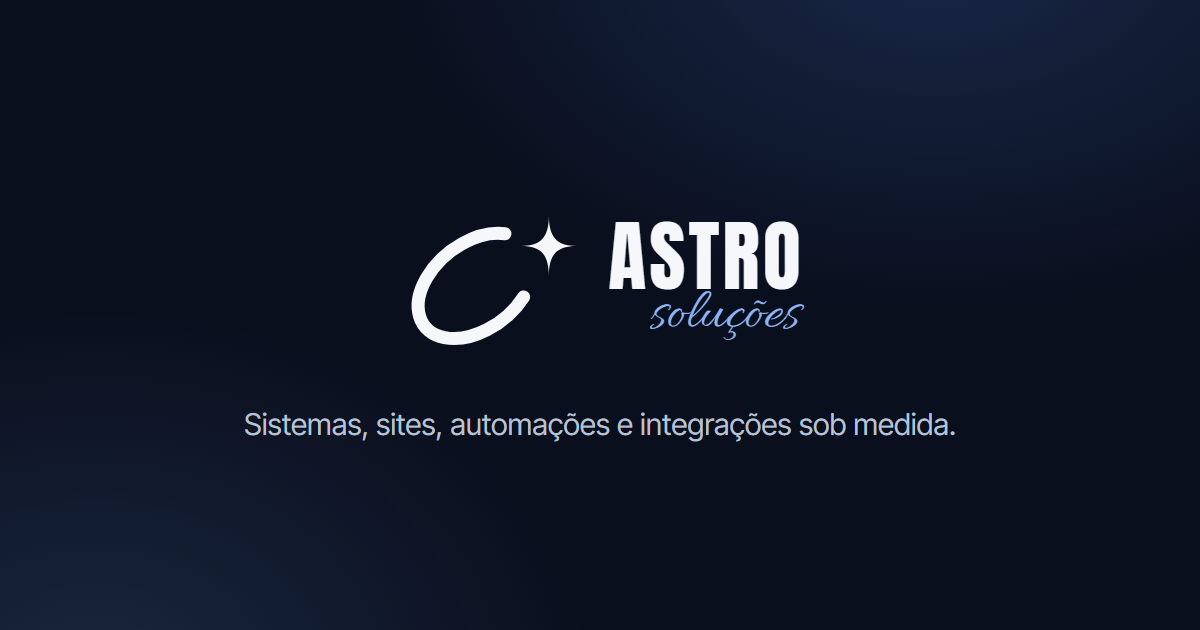
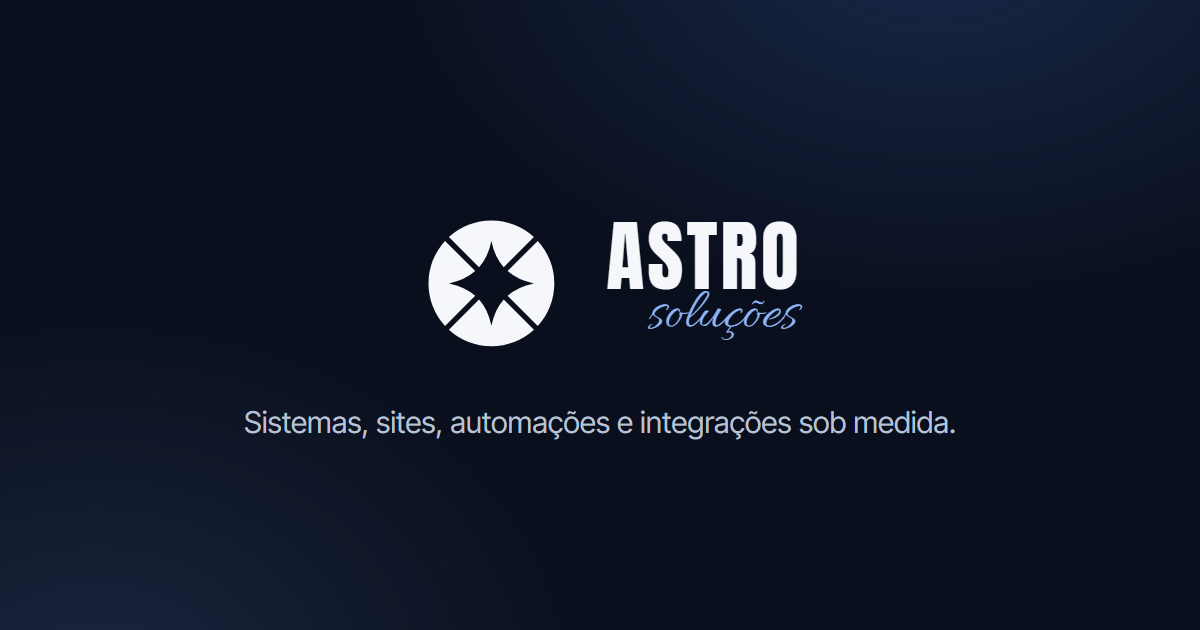
feat: marca nova e correção do travamento no scroll do celular
Marca
- símbolo refeito com a geometria oficial: disco recortado em quatro pétalas,
  e o vão entre elas desenha a estrela de quatro pontas. Uma pétala é
  desenhada, as outras três são a mesma path girada em 90°
- cinco versões em public/logo (tonal, dois tons, mono, negativo e a night,
  branco e azul alternados, que é a do site) mais favicon e badge
- AstroStar passa a ser o vão da própria marca remontado como contorno, no
  lugar da estrela antiga que era um desenho à parte
- apple-touch-icon, og-image e favicon-64 regerados na paleta nova
  (#0B2545 marinho, #1E86CF azul)

Travamento no arrastão rápido
O Lenis intercepta o gesto de toque e roda o scroll por JS com lerp de 0.105.
Num flick rápido a página fica muito atrás do dedo, e a sensação é de
travamento. Agora ele só existe em ponteiro fino: o celular usa o scroll
nativo, que já tem inércia própria.

Faixa no fim do site
Duas causas somadas. O elástico do overscroll expõe uma área sem nenhuma
camada fixa atrás, e ali quem pinta é o fundo do `html`, que estava sem cor —
resolvido com `overscroll-behavior-y: none` e a cor declarada no `html`. E o
rodapé utilitário usava `bg-graphite/70` com `backdrop-blur-sm`: deixava a
cor da TintLayer vazar por baixo e ainda custava um `backdrop-filter` por
frame de scroll. Agora é opaco.

Changed region(s): [[0.4933, 0.3619, 0.6783, 0.5429], [0.3392, 0.3317, 0.4625, 0.573], [0.185, 0.6333, 0.8017, 0.6937]]

diff --git a/src/components/brand/AstroMark.tsx b/src/components/brand/AstroMark.tsx
@@ -1,73 +1,82 @@
-import { useId } from 'react'
+/**
+ * Símbolo da Astro: um disco recortado em quatro pétalas, e o vão entre elas
+ * desenha uma estrela de quatro pontas. As fendas têm largura constante do
+ * centro à borda, então a marca fica idêntica em qualquer escala.
+ *
+ * Uma pétala só; as outras três são a mesma path girada em 90°. Mudou a
+ * geometria aqui, mudou nos arquivos de `public/logo/` também.
+ */
+const PETAL =
+  'M 71.84 50.99 Q 79.31 57.61 91.00 60.00 Q 79.31 62.39 71.84 69.01 L 93.91 91.08 A 46 46 0 0 0 93.91 28.92 Z'
+
+/** Ordem de desenho: topo, direita, base, esquerda. */
+const PETAL_ANGLES = [-90, 0, 90, 180] as const
+
+/* Paleta da marca. O azul lidera, o marinho fecha. */
+const BLUE = '#1E86CF'
+const STEEL = '#2E5A87'
+const NAVY = '#0B2545'
+const SLATE = '#5B7A99'
 
 /**
- * Símbolo da Astro: anel orbital aberto com uma estrela de quatro pontas na
- * abertura. Mesma geometria dos arquivos em `public/logo/`. Mudou aqui, muda lá.
+ * `tonal` é a versão cheia para fundo claro: as quatro peças giram em tom, do
+ * claro no topo ao marinho embaixo, uma volta de luz e não quatro cores soltas.
+ * `duo` alterna só dois tons, mais gráfica e mais barata de imprimir. `mono` é
+ * a de traço único, indicada abaixo de 32px, onde as fendas somam e o disco
+ * fecha. `negative` e `night` são as de fundo escuro — esta última guarda o
+ * azul da marca, que o branco puro perde.
  */
-const RING_PATH = 'M36.7 15.4A22 14.5 -38 1 0 43 36.7'
-const STAR_PATH =
-  'M51.5 9.2C51.5 16.6 54.1 19.5 60.8 19.5C54.1 19.5 51.5 22.4 51.5 29.8C51.5 22.4 48.9 19.5 42.2 19.5C48.9 19.5 51.5 16.6 51.5 9.2Z'
+type Tone = 'tonal' | 'duo' | 'mono' | 'negative' | 'night'
 
-/**
- * `light` é o padrão do site (fundo escuro). `gradient` é a versão de fundo
- * claro. `mono` herda `currentColor`, para a marca acompanhar o texto.
- */
-type Tone = 'light' | 'gradient' | 'navy' | 'mono'
+const TONES: Record<Tone, readonly [string, string, string, string]> = {
+  tonal: [BLUE, STEEL, NAVY, SLATE],
+  duo: [BLUE, NAVY, BLUE, NAVY],
+  mono: [NAVY, NAVY, NAVY, NAVY],
+  negative: ['#FFFFFF', '#FFFFFF', '#FFFFFF', '#FFFFFF'],
+  night: ['#FFFFFF', BLUE, '#FFFFFF', BLUE],
+}
 
 export function AstroMark({
   className = '',
-  tone = 'light',
+  tone = 'night',
   title,
 }: {
   className?: string
   tone?: Tone
   title?: string
 }) {
-  /* Os ids de gradiente precisam ser únicos: a marca aparece várias vezes na página. */
-  const id = useId().replace(/:/g, '')
-  const ringId = `ring-${id}`
-  const starId = `star-${id}`
-
-  const ringStroke =
-    tone === 'gradient' ? `url(#${ringId})` : tone === 'navy' ? '#12294e' : tone === 'mono' ? 'currentColor' : '#f5f7fb'
-  const starFill =
-    tone === 'gradient' || tone === 'light'
-      ? `url(#${starId})`
-      : tone === 'navy'
-        ? '#12294e'
-        : 'currentColor'
+  const fills = TONES[tone]
 
   return (
     <svg
-      viewBox="0 0 64 64"
+      viewBox="-8 -8 136 136"
       className={className}
       role={title ? 'img' : undefined}
       aria-label={title}
       aria-hidden={title ? undefined : true}
     >
-      {tone === 'gradient' ? (
-        <linearGradient id={ringId} x1="8" y1="50" x2="46" y2="14" gradientUnits="userSpaceOnUse">
-          <stop offset="0" stopColor="#5c7fa6" />
-          <stop offset="1" stopColor="#13294c" />
-        </linearGradient>
-      ) : null}
-      {tone === 'gradient' || tone === 'light' ? (
-        <linearGradient id={starId} x1="51.5" y1="9.2" x2="51.5" y2="29.8" gradientUnits="userSpaceOnUse">
-          <stop offset="0" stopColor={tone === 'light' ? '#4d84e0' : '#2b7fc0'} />
-          <stop offset="1" stopColor={tone === 'light' ? '#8db4f5' : '#5fbaec'} />
-        </linearGradient>
-      ) : null}
-      <path d={RING_PATH} fill="none" stroke={ringStroke} strokeWidth="4" strokeLinecap="round" />
-      <path d={STAR_PATH} fill={starFill} />
+      {PETAL_ANGLES.map((angle, index) => (
+        <path key={angle} d={PETAL} fill={fills[index]} transform={`rotate(${angle} 60 60)`} />
+      ))}
     </svg>
   )
 }
 
-/** Só a estrela. Serve de marcador nos eyebrows e nas listas. */
+/**
+ * A estrela sozinha: é o vão entre as quatro pétalas, remontado como contorno
+ * próprio. Serve de marcador nos eyebrows e nas listas — o mesmo desenho da
+ * marca, na menor unidade possível.
+ */
+const STAR =
+  'M 71.84 50.99 Q 79.31 57.61 91 60 Q 79.31 62.39 71.84 69.01 ' +
+  'L 69.01 71.84 Q 62.39 79.31 60 91 Q 57.61 79.31 50.99 71.84 ' +
+  'L 48.16 69.01 Q 40.69 62.39 29 60 Q 40.69 57.61 48.16 50.99 ' +
+  'L 50.99 48.16 Q 57.61 40.69 60 29 Q 62.39 40.69 69.01 48.16 Z'
+
 export function AstroStar({ className = '' }: { className?: string }) {
   return (
-    <svg viewBox="41 9 20.5 21.3" className={className} aria-hidden="true">
-      <path d={STAR_PATH} fill="currentColor" />
+    <svg viewBox="29 29 62 62" className={className} aria-hidden="true">
+      <path d={STAR} fill="currentColor" />
     </svg>
   )
 }

diff --git a/tools/icon-generator.html b/tools/icon-generator.html
@@ -2,13 +2,13 @@
 <style>
   body{margin:0;background:#888;font-family:'Anton',sans-serif}
   .plate{position:relative;overflow:hidden}
-  #apple{width:180px;height:180px;background:#0f2947;display:flex;align-items:center;justify-content:center}
+  #apple{width:180px;height:180px;background:#0B2545;display:flex;align-items:center;justify-content:center}
   #apple svg{width:150px;height:150px}
   #fav32{width:64px;height:64px;background:#fff;display:flex;align-items:center;justify-content:center}
   #fav32 svg{width:64px;height:64px}
   #og{width:1200px;height:630px;background:#0a0f1e;display:flex;flex-direction:column;align-items:center;justify-content:center;gap:28px;
       background-image:radial-gradient(900px 600px at 78% -10%,rgba(77,132,224,.22),transparent 62%),radial-gradient(800px 600px at 8% 108%,rgba(122,179,255,.14),transparent 62%)}
-  #og svg{width:190px;height:190px}
+  #og svg{width:186px;height:186px}
   #og .wm{display:flex;align-items:center;gap:22px}
   #og .word{display:flex;flex-direction:column;line-height:1}
   #og .astro{font-family:Anton,sans-serif;font-size:78px;letter-spacing:.04em;color:#f5f7fb;line-height:.9;text-transform:uppercase}
@@ -17,9 +17,11 @@
 </style>
 <link href="https://fonts.googleapis.com/css2?family=Inter+Tight:wght@400;480&family=Anton&family=Allura&display=swap" rel="stylesheet">
 <template id="mark">
-  <svg viewBox="0 0 64 64">
-    <path d="M36.7 15.4A22 14.5 -38 1 0 43 36.7" fill="none" stroke="CS" stroke-width="4.4" stroke-linecap="round"/>
-    <path d="M51.5 9.2C51.5 16.6 54.1 19.5 60.8 19.5C54.1 19.5 51.5 22.4 51.5 29.8C51.5 22.4 48.9 19.5 42.2 19.5C48.9 19.5 51.5 16.6 51.5 9.2Z" fill="CS"/>
+  <svg viewBox="-8 -8 136 136">
+    <path d="M 71.84 50.99 Q 79.31 57.61 91.00 60.00 Q 79.31 62.39 71.84 69.01 L 93.91 91.08 A 46 46 0 0 0 93.91 28.92 Z" fill="CS" transform="rotate(-90 60 60)"/>
+    <path d="M 71.84 50.99 Q 79.31 57.61 91.00 60.00 Q 79.31 62.39 71.84 69.01 L 93.91 91.08 A 46 46 0 0 0 93.91 28.92 Z" fill="CS" transform="rotate(0 60 60)"/>
+    <path d="M 71.84 50.99 Q 79.31 57.61 91.00 60.00 Q 79.31 62.39 71.84 69.01 L 93.91 91.08 A 46 46 0 0 0 93.91 28.92 Z" fill="CS" transform="rotate(90 60 60)"/>
+    <path d="M 71.84 50.99 Q 79.31 57.61 91.00 60.00 Q 79.31 62.39 71.84 69.01 L 93.91 91.08 A 46 46 0 0 0 93.91 28.92 Z" fill="CS" transform="rotate(180 60 60)"/>
   </svg>
 </template>
 <div id="apple" class="plate"></div>
@@ -29,7 +31,7 @@
   const tpl = document.getElementById('mark').innerHTML
   const paint = (sel, color) => { document.querySelector(sel).insertAdjacentHTML('afterbegin', tpl.replaceAll('CS', color)) }
   paint('#apple', '#ffffff')
-  paint('#fav32', '#12294e')
+  paint('#fav32', '#0B2545')
   const wm = document.querySelector('#og .wm')
   wm.insertAdjacentHTML('afterbegin', tpl.replaceAll('CS', '#f5f7fb'))
   wm.insertAdjacentHTML('beforeend', '<span class="word"><span class="astro">Astro</span><span class="sol">soluções</span></span>')

diff --git a/src/components/Footer.tsx b/src/components/Footer.tsx
@@ -15,7 +15,7 @@ export function Footer() {
       <div className="relative flex min-h-[80svh] items-center">
         <AstroMark
           className="pointer-events-none absolute top-1/2 left-1/2 h-[62vmin] w-[62vmin] -translate-x-1/2 -translate-y-1/2 opacity-[0.045]"
-          tone="mono"
+          tone="negative"
         />
         <div className="shell relative">
           <BlurReveal className="mx-auto max-w-3xl text-center">
@@ -36,7 +36,9 @@ export function Footer() {
         </div>
       </div>
 
-      <div className="border-t border-white/10 bg-graphite/70 backdrop-blur-sm">
+      {/* Opaco de propósito: `backdrop-filter` custa caro a cada frame de scroll no
+          celular, e deixava a cor da TintLayer vazar por baixo do rodapé. */}
+      <div className="relative z-10 border-t border-white/10 bg-graphite">
         <div className="shell grid gap-10 py-14 md:grid-cols-[1.4fr_1fr_1fr]">
           <div>
             <Logo />

diff --git a/src/lib/scroll.ts b/src/lib/scroll.ts
@@ -7,8 +7,16 @@ import Lenis from 'lenis'
  */
 let lenis: Lenis | null = null
 
+/**
+ * O Lenis fica só no ponteiro fino. Em tela de toque ele intercepta o gesto e
+ * roda o scroll por JS, então um arrastão rápido acaba com a página andando
+ * atrás do dedo — parece travamento. O scroll nativo do celular já tem inércia
+ * própria e é o mais suave que existe ali.
+ */
 export function initSmoothScroll() {
-  if (lenis || window.matchMedia('(prefers-reduced-motion: reduce)').matches) return
+  if (lenis) return
+  if (window.matchMedia('(prefers-reduced-motion: reduce)').matches) return
+  if (window.matchMedia('(pointer: coarse)').matches) return
 
   lenis = new Lenis({ lerp: 0.105 })
   const raf = (time: number) => {

diff --git a/src/index.css b/src/index.css
@@ -36,6 +36,12 @@
     /* O Lenis controla a suavização do scroll; o smooth nativo brigaria com ele. */
     scroll-padding-top: 96px;
     -webkit-text-size-adjust: 100%;
+    /* Sem elástico no fim da página: o vão do overscroll não tem camada fixa
+       atrás e aparecia como uma faixa de cor no pé do site. */
+    overscroll-behavior-y: none;
+    /* A cor precisa estar aqui também: o elástico pinta o fundo do html, não o
+       do body. */
+    background-color: var(--color-onyx);
   }
 
   body {
